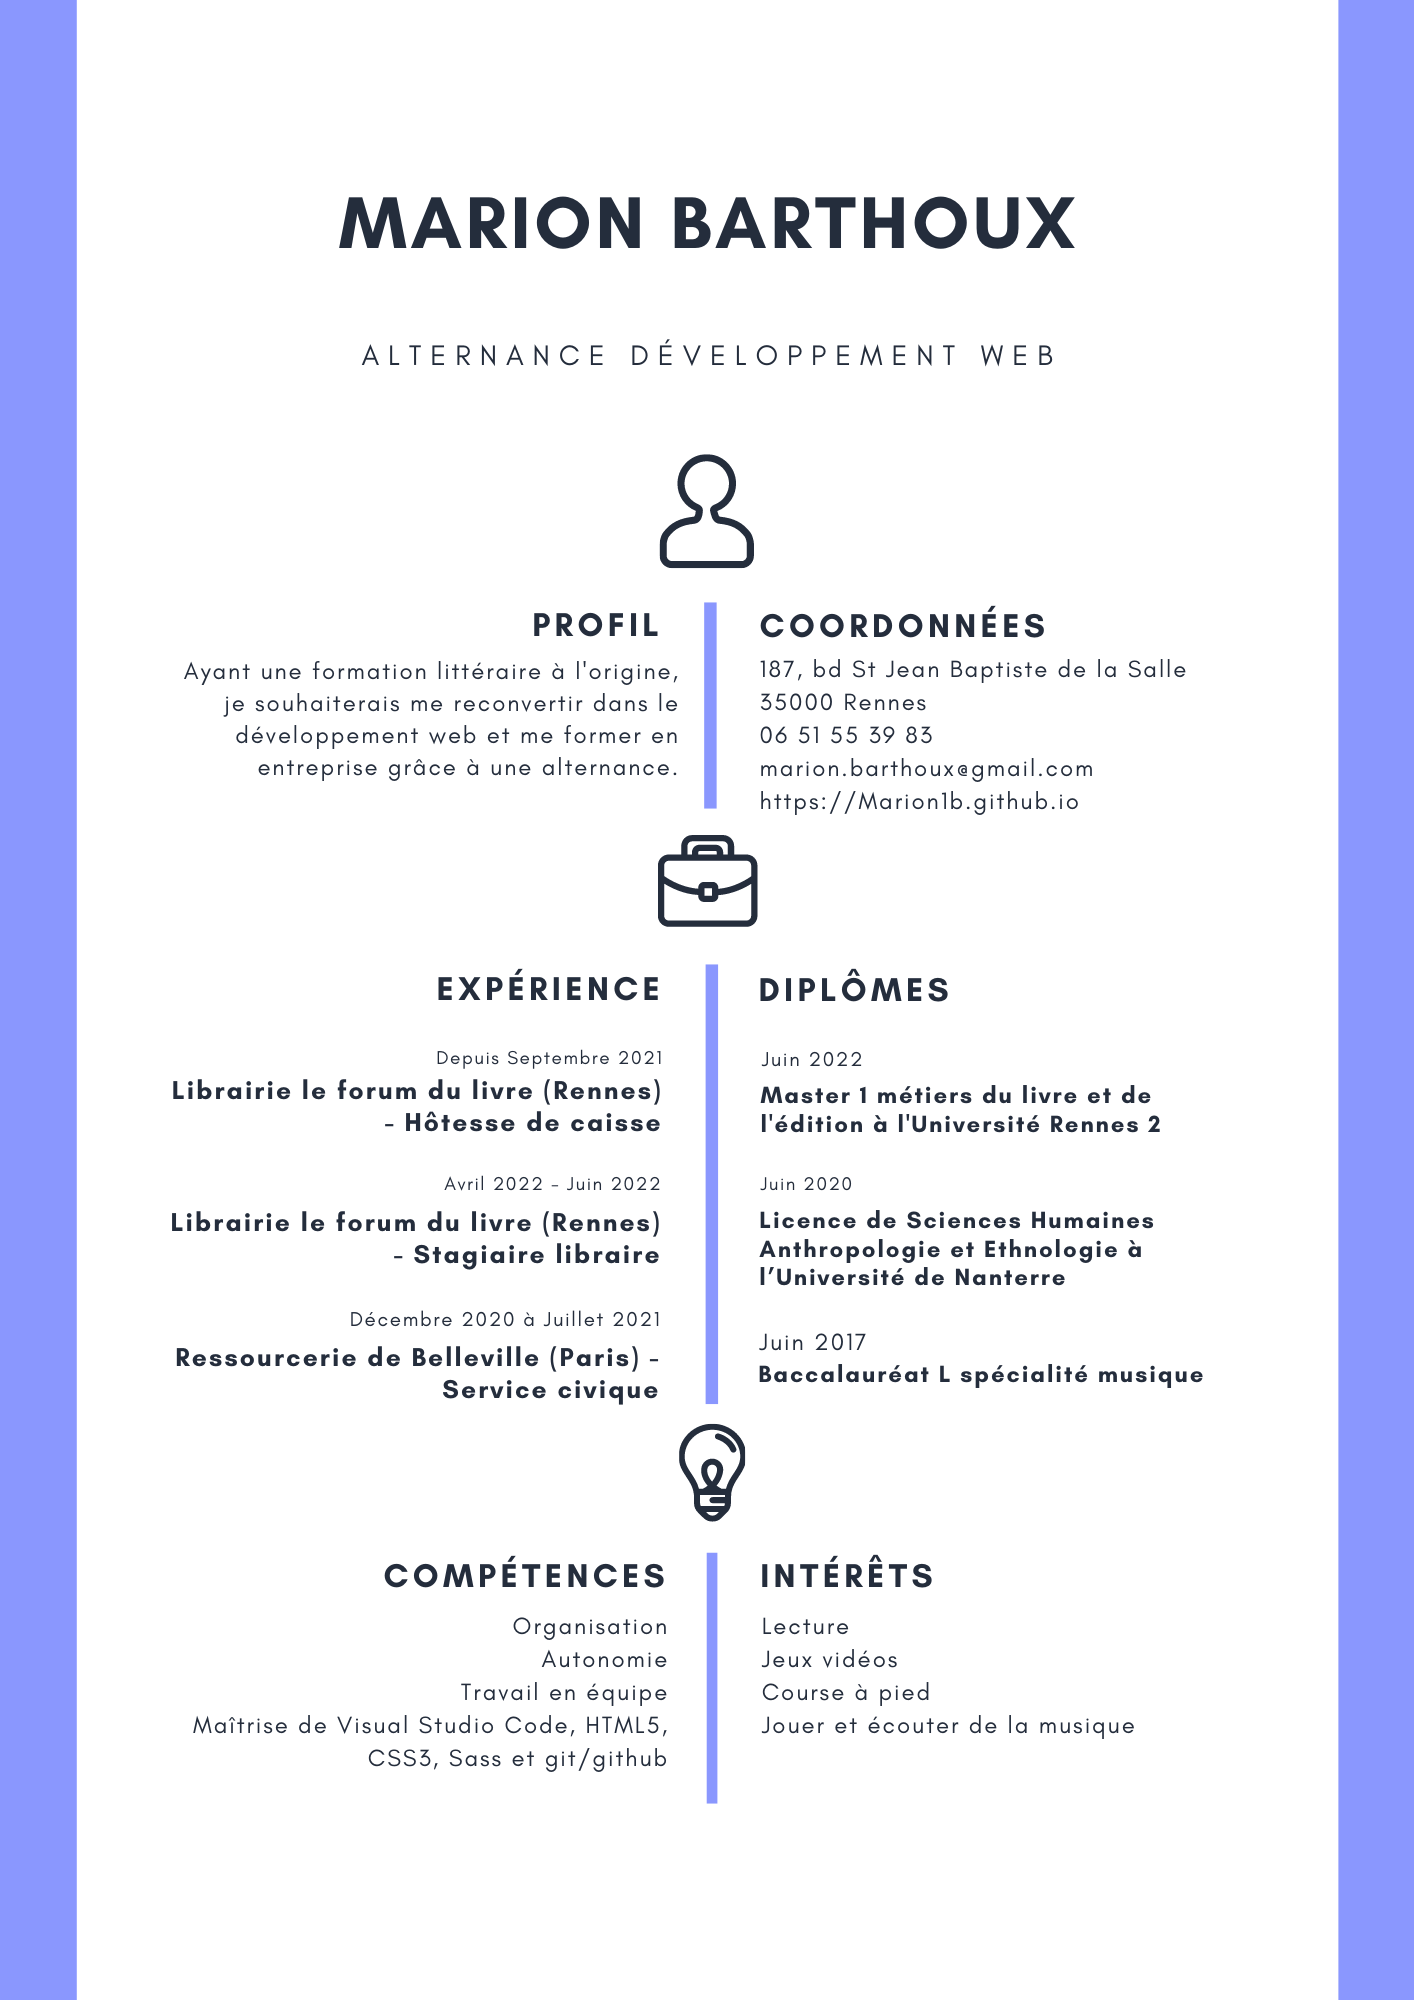
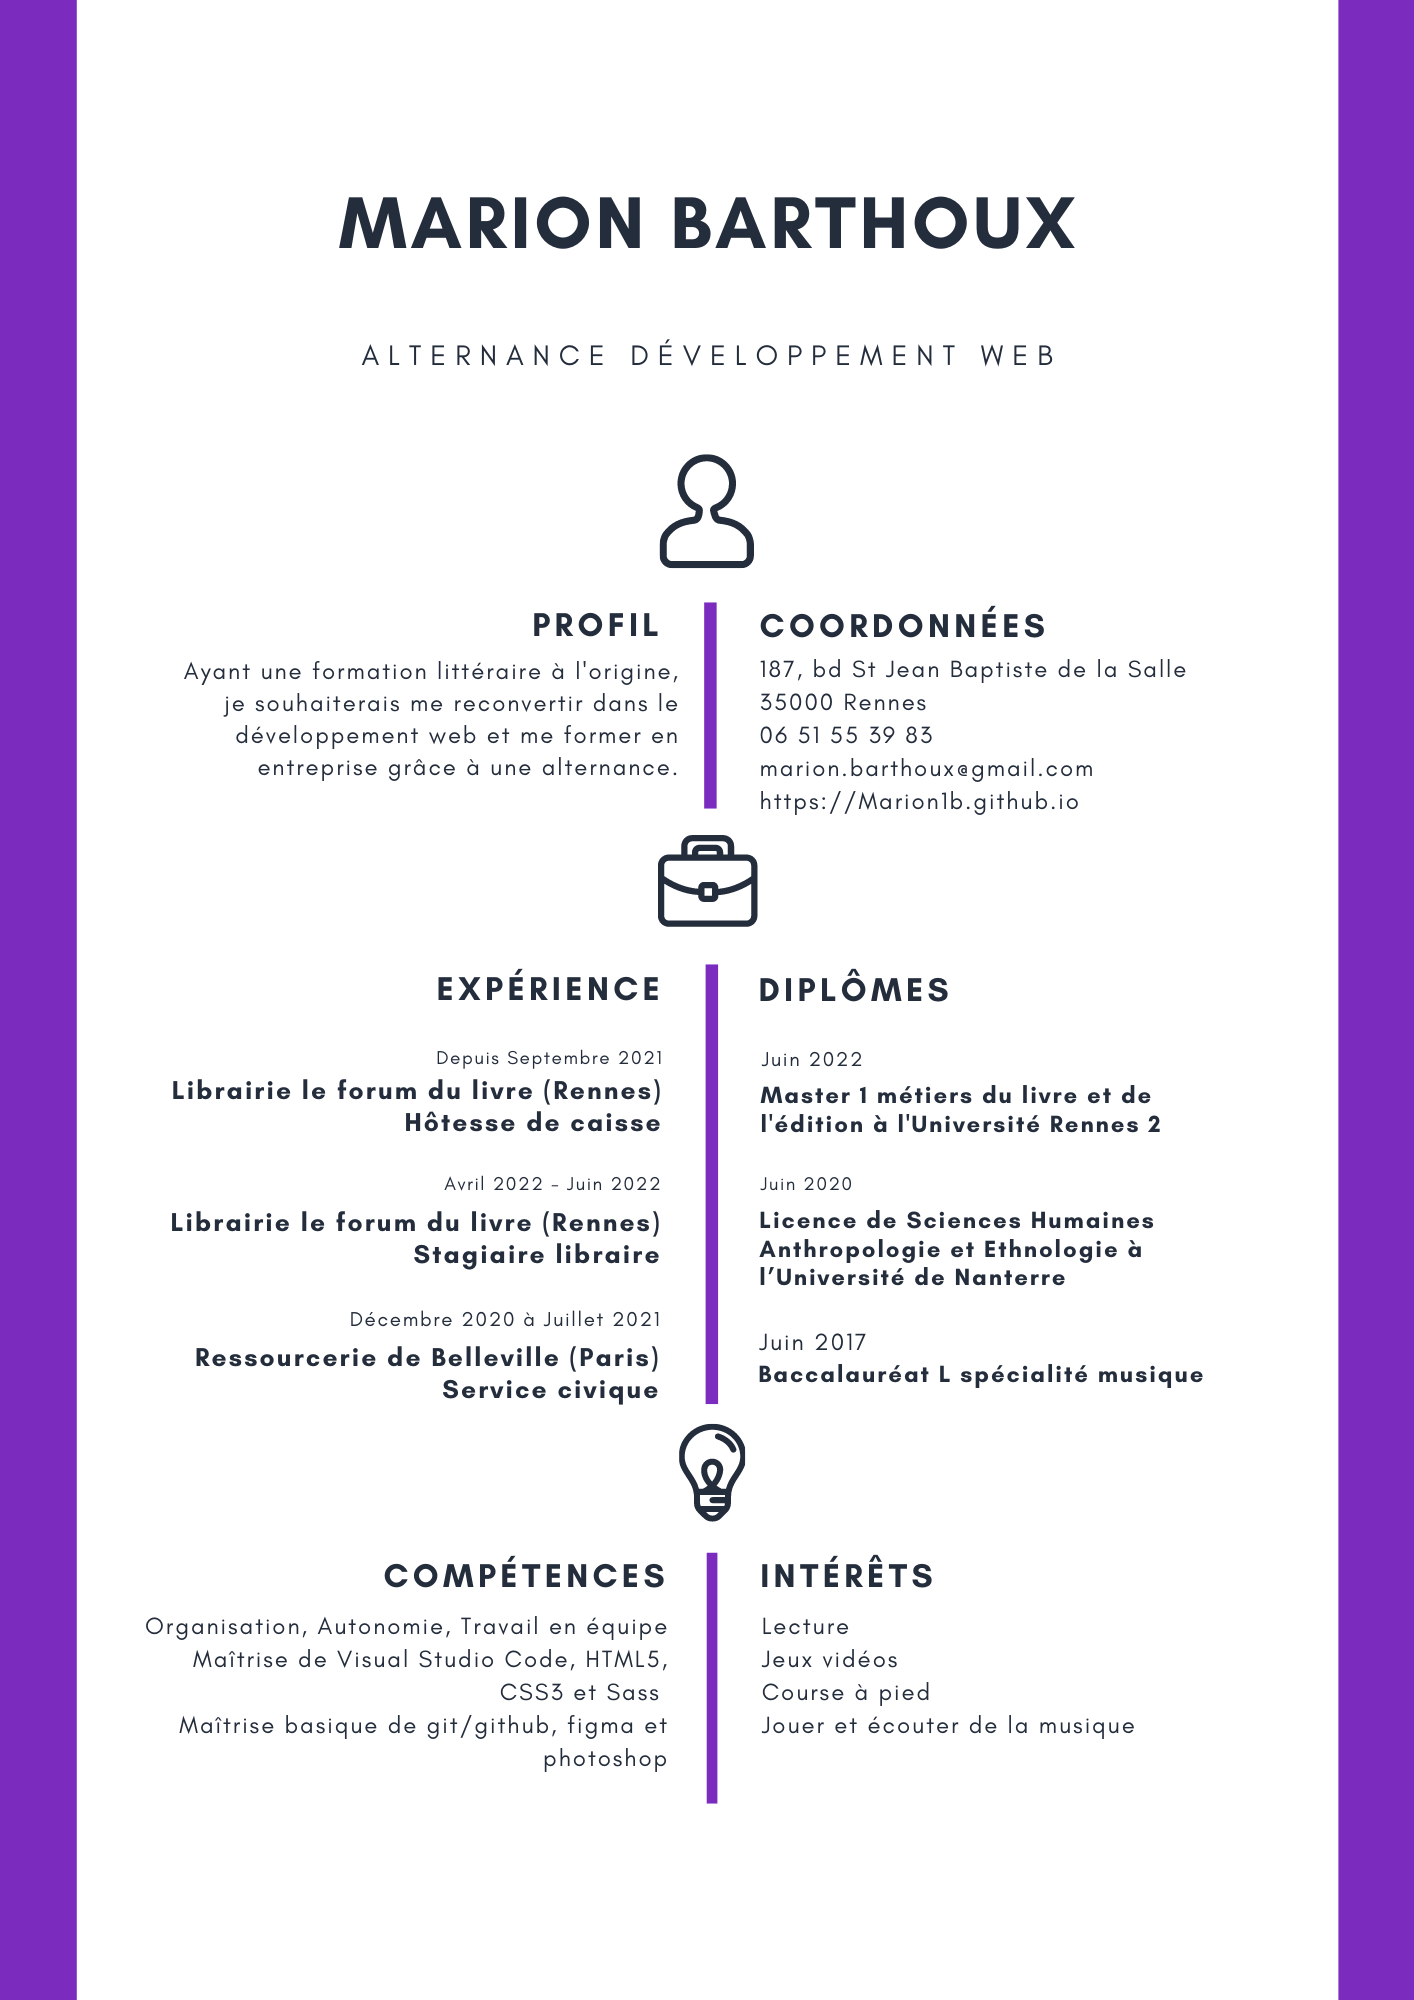
changed colors again

diff --git a/CSS/Style.css b/CSS/Style.css
@@ -1,1 +1,1 @@
-*{font-family:Georgia,"Times New Roman",Times,serif;scrollbar-width:none}h1{color:#bc6c25}h2{color:#bc6c25}a{color:#bc6c25;text-decoration:none}p{color:#283618}*::-webkit-scrollbar{display:none}body{width:80%;margin:auto;background-color:#fefae0}header{margin-top:30px;margin-bottom:150px;display:flex;justify-content:space-between;align-items:flex-end}header h1{text-align:justify-all;transition:transform 1000ms,color 1200ms}header h1:hover{transform:scale(1.3);color:#43291f}header h1 a{transition:color 1200ms}header h1 a:hover{color:#43291f}header ul{display:flex}header ul li{list-style-type:none;margin-left:30px;padding:10px;border-radius:2rem;font-size:1.5rem;transition:transform 400ms;border:2px #bc6c25 solid}header ul li:hover{transform:scale(1.15);transform:translateY(3px)}header ul li:active{transform:translateY(-10px)}footer{display:flex;justify-content:center;align-items:baseline;margin-top:150px;margin-bottom:25px}footer .footer__reseaux{display:flex}footer .footer__reseaux img{width:25px;height:25px;transition:transform 400ms}footer .footer__reseaux img:hover{transform:scale(1.1)}footer .footer__reseaux--linkedin,footer .footer__reseaux--git{padding-left:20px}footer a{font-size:1.3em}footer .footer__mail{transition:transform 400ms}footer .footer__mail:hover{transform:scale(1.05)}.bonjour{position:relative;margin-bottom:150px}.bonjour p{font-size:4em;text-align:center}.bonjour__Marion{color:#bc6c25}.accueil{margin-bottom:150px;display:flex;justify-content:space-around}.accueil__a-propos{height:300px;width:27%;border:3px #bc6c25 solid;background-color:#bc6c25;background-position:top-left;background-repeat:no-repeat;position:relative;border-radius:2rem;overflow:hidden;transition:transform 500ms,border-color 400ms;background-image:url("../Pictures/a-propos.png")}.accueil__a-propos:hover{transform:scale(1.1);border-color:#43291f}.accueil__a-propos--hover-transparent{background-color:rgba(0,0,0,0);height:85%;width:100%}.accueil__a-propos--hover-transparent:hover+.accueil__a-propos--description{background-color:#43291f;color:#bc6c25}.accueil__a-propos--description{padding:5px 0px 5px 0px;text-align:center;font-size:2rem;color:#fefae0;background-color:#bc6c25;opacity:.75;transition:all 400ms}.accueil__a-propos--description:hover{background-color:#43291f;color:#bc6c25}.accueil__CV{height:300px;width:27%;border:3px #bc6c25 solid;background-color:#bc6c25;background-position:top-left;background-repeat:no-repeat;position:relative;border-radius:2rem;overflow:hidden;transition:transform 500ms,border-color 400ms;background-image:url("../CV/CV_Barthoux.png");background-size:100%;background-position:top}.accueil__CV:hover{transform:scale(1.1);border-color:#43291f}.accueil__CV--hover-transparent{background-color:rgba(0,0,0,0);height:85%;width:100%}.accueil__CV--hover-transparent:hover+.accueil__CV--description{background-color:#43291f;color:#bc6c25}.accueil__CV--description{padding:5px 0px 5px 0px;text-align:center;font-size:2rem;color:#fefae0;background-color:#bc6c25;opacity:.75;transition:all 400ms}.accueil__CV--description:hover{background-color:#43291f;color:#bc6c25}.accueil__sites{height:300px;width:27%;border:3px #bc6c25 solid;background-color:#bc6c25;background-position:top-left;background-repeat:no-repeat;position:relative;border-radius:2rem;overflow:hidden;transition:transform 500ms,border-color 400ms;background-image:url("../Pictures/sites.png")}.accueil__sites:hover{transform:scale(1.1);border-color:#43291f}.accueil__sites--hover-transparent{background-color:rgba(0,0,0,0);height:85%;width:100%}.accueil__sites--hover-transparent:hover+.accueil__sites--description{background-color:#43291f;color:#bc6c25}.accueil__sites--description{padding:5px 0px 5px 0px;text-align:center;font-size:2rem;color:#fefae0;background-color:#bc6c25;opacity:.75;transition:all 400ms}.accueil__sites--description:hover{background-color:#43291f;color:#bc6c25}.a-propos h2{font-size:1.5rem}.a-propos p{text-align:justify;font-size:1.3rem;line-height:1.5rem;margin-bottom:75px}.a-propos a{transition:color 200ms}.a-propos a:hover{color:#43291f}.a-propos a:active{color:#bc6c25}.CV img{height:90%;width:90%;display:block;margin:auto;margin-bottom:150px}.sites p{text-align:justify;font-size:1.3rem;line-height:1.5rem;margin-bottom:100px}.sites h2{font-size:1.5rem}.sites img{width:50%;height:50%}/*# sourceMappingURL=Style.css.map */
+*{font-family:Georgia,"Times New Roman",Times,serif;scrollbar-width:none}h1{color:#7b2cbf}h2{color:#7b2cbf}a{color:#7b2cbf;text-decoration:none}p{color:#10002b}*::-webkit-scrollbar{display:none}body{width:80%;margin:auto;background-color:#f0ebff}header{margin-top:30px;margin-bottom:150px;display:flex;justify-content:space-between;align-items:flex-end}header h1{text-align:justify-all;transition:transform 1000ms,color 1200ms}header h1:hover{transform:scale(1.3);color:#c77dff}header h1 a{transition:color 1200ms}header h1 a:hover{color:#c77dff}header ul{display:flex}header ul li{list-style-type:none;margin-left:30px;padding:10px;border-radius:2rem;font-size:1.5rem;transition:transform 400ms;border:2px #7b2cbf solid}header ul li:hover{transform:scale(1.15);transform:translateY(3px)}header ul li:active{transform:translateY(-10px)}footer{display:flex;justify-content:center;align-items:baseline;margin-top:150px;margin-bottom:25px}footer .footer__reseaux{display:flex}footer .footer__reseaux img{width:25px;height:25px;transition:transform 400ms}footer .footer__reseaux img:hover{transform:scale(1.1)}footer .footer__reseaux--linkedin,footer .footer__reseaux--git{padding-left:20px}footer a{font-size:1.3em}footer .footer__mail{transition:transform 400ms}footer .footer__mail:hover{transform:scale(1.05)}.bonjour{position:relative;margin-bottom:150px}.bonjour p{font-size:4em;text-align:center}.bonjour__Marion{color:#7b2cbf}.accueil{margin-bottom:150px;display:flex;justify-content:space-around}.accueil__a-propos{height:300px;width:27%;border:3px #7b2cbf solid;background-color:#7b2cbf;background-position:top-left;background-repeat:no-repeat;position:relative;border-radius:2rem;overflow:hidden;transition:transform 500ms,border-color 400ms;background-image:url("../Pictures/a-propos.png")}.accueil__a-propos:hover{transform:scale(1.1);border-color:#c77dff}.accueil__a-propos--hover-transparent{background-color:rgba(0,0,0,0);height:85%;width:100%}.accueil__a-propos--hover-transparent:hover+.accueil__a-propos--description{background-color:#c77dff;color:#7b2cbf}.accueil__a-propos--description{padding:5px 0px 5px 0px;text-align:center;font-size:2rem;color:#f0ebff;background-color:#7b2cbf;opacity:.75;transition:all 400ms}.accueil__a-propos--description:hover{background-color:#c77dff;color:#7b2cbf}.accueil__CV{height:300px;width:27%;border:3px #7b2cbf solid;background-color:#7b2cbf;background-position:top-left;background-repeat:no-repeat;position:relative;border-radius:2rem;overflow:hidden;transition:transform 500ms,border-color 400ms;background-image:url("../CV/CV_Barthoux.png");background-size:100%;background-position:top}.accueil__CV:hover{transform:scale(1.1);border-color:#c77dff}.accueil__CV--hover-transparent{background-color:rgba(0,0,0,0);height:85%;width:100%}.accueil__CV--hover-transparent:hover+.accueil__CV--description{background-color:#c77dff;color:#7b2cbf}.accueil__CV--description{padding:5px 0px 5px 0px;text-align:center;font-size:2rem;color:#f0ebff;background-color:#7b2cbf;opacity:.75;transition:all 400ms}.accueil__CV--description:hover{background-color:#c77dff;color:#7b2cbf}.accueil__sites{height:300px;width:27%;border:3px #7b2cbf solid;background-color:#7b2cbf;background-position:top-left;background-repeat:no-repeat;position:relative;border-radius:2rem;overflow:hidden;transition:transform 500ms,border-color 400ms;background-image:url("../Pictures/sites.png")}.accueil__sites:hover{transform:scale(1.1);border-color:#c77dff}.accueil__sites--hover-transparent{background-color:rgba(0,0,0,0);height:85%;width:100%}.accueil__sites--hover-transparent:hover+.accueil__sites--description{background-color:#c77dff;color:#7b2cbf}.accueil__sites--description{padding:5px 0px 5px 0px;text-align:center;font-size:2rem;color:#f0ebff;background-color:#7b2cbf;opacity:.75;transition:all 400ms}.accueil__sites--description:hover{background-color:#c77dff;color:#7b2cbf}.a-propos h2{font-size:1.5rem}.a-propos p{text-align:justify;font-size:1.3rem;line-height:1.5rem;margin-bottom:75px}.a-propos a{transition:color 200ms}.a-propos a:hover{color:#c77dff}.a-propos a:active{color:#7b2cbf}.CV img{height:90%;width:90%;display:block;margin:auto;margin-bottom:150px}.sites p{text-align:justify;font-size:1.3rem;line-height:1.5rem;margin-bottom:100px}.sites h2{font-size:1.5rem}.sites img{width:50%;height:50%}/*# sourceMappingURL=Style.css.map */

diff --git a/SCSS/utils/_variables.scss b/SCSS/utils/_variables.scss
@@ -1,25 +1,7 @@
-// $color-background:#8A97FE;
-// $color-font:#FAFAFA;
-// $color-secondary: #FE81CC;
-// $color-third:#F6FE78;
-$color-fourth:#FE4B4B;
-
-// white mode
-// $color-background:#ffffff;
-// $color-font:#011638;
-// $color-secondary:#4CC9F0;
-// $color-third:#b942f1;
-
-$color-background:#fefae0;
-$color-font:#283618;
-$color-secondary:#43291F;
-$color-third:#BC6C25;
-
-// dark mode
-// $color-background:#011638;
-// $color-font:#CABAC8;
-// $color-secondary:#8BE8CB;
-// $color-third:#CABAC8;
+$color-background:#F0EBFF;
+$color-font:#10002B;
+$color-secondary:#C77DFF;
+$color-third:#7B2CBF;
 
 $p-font-size:1.3rem;
 $h2-font-size:1.5rem;
